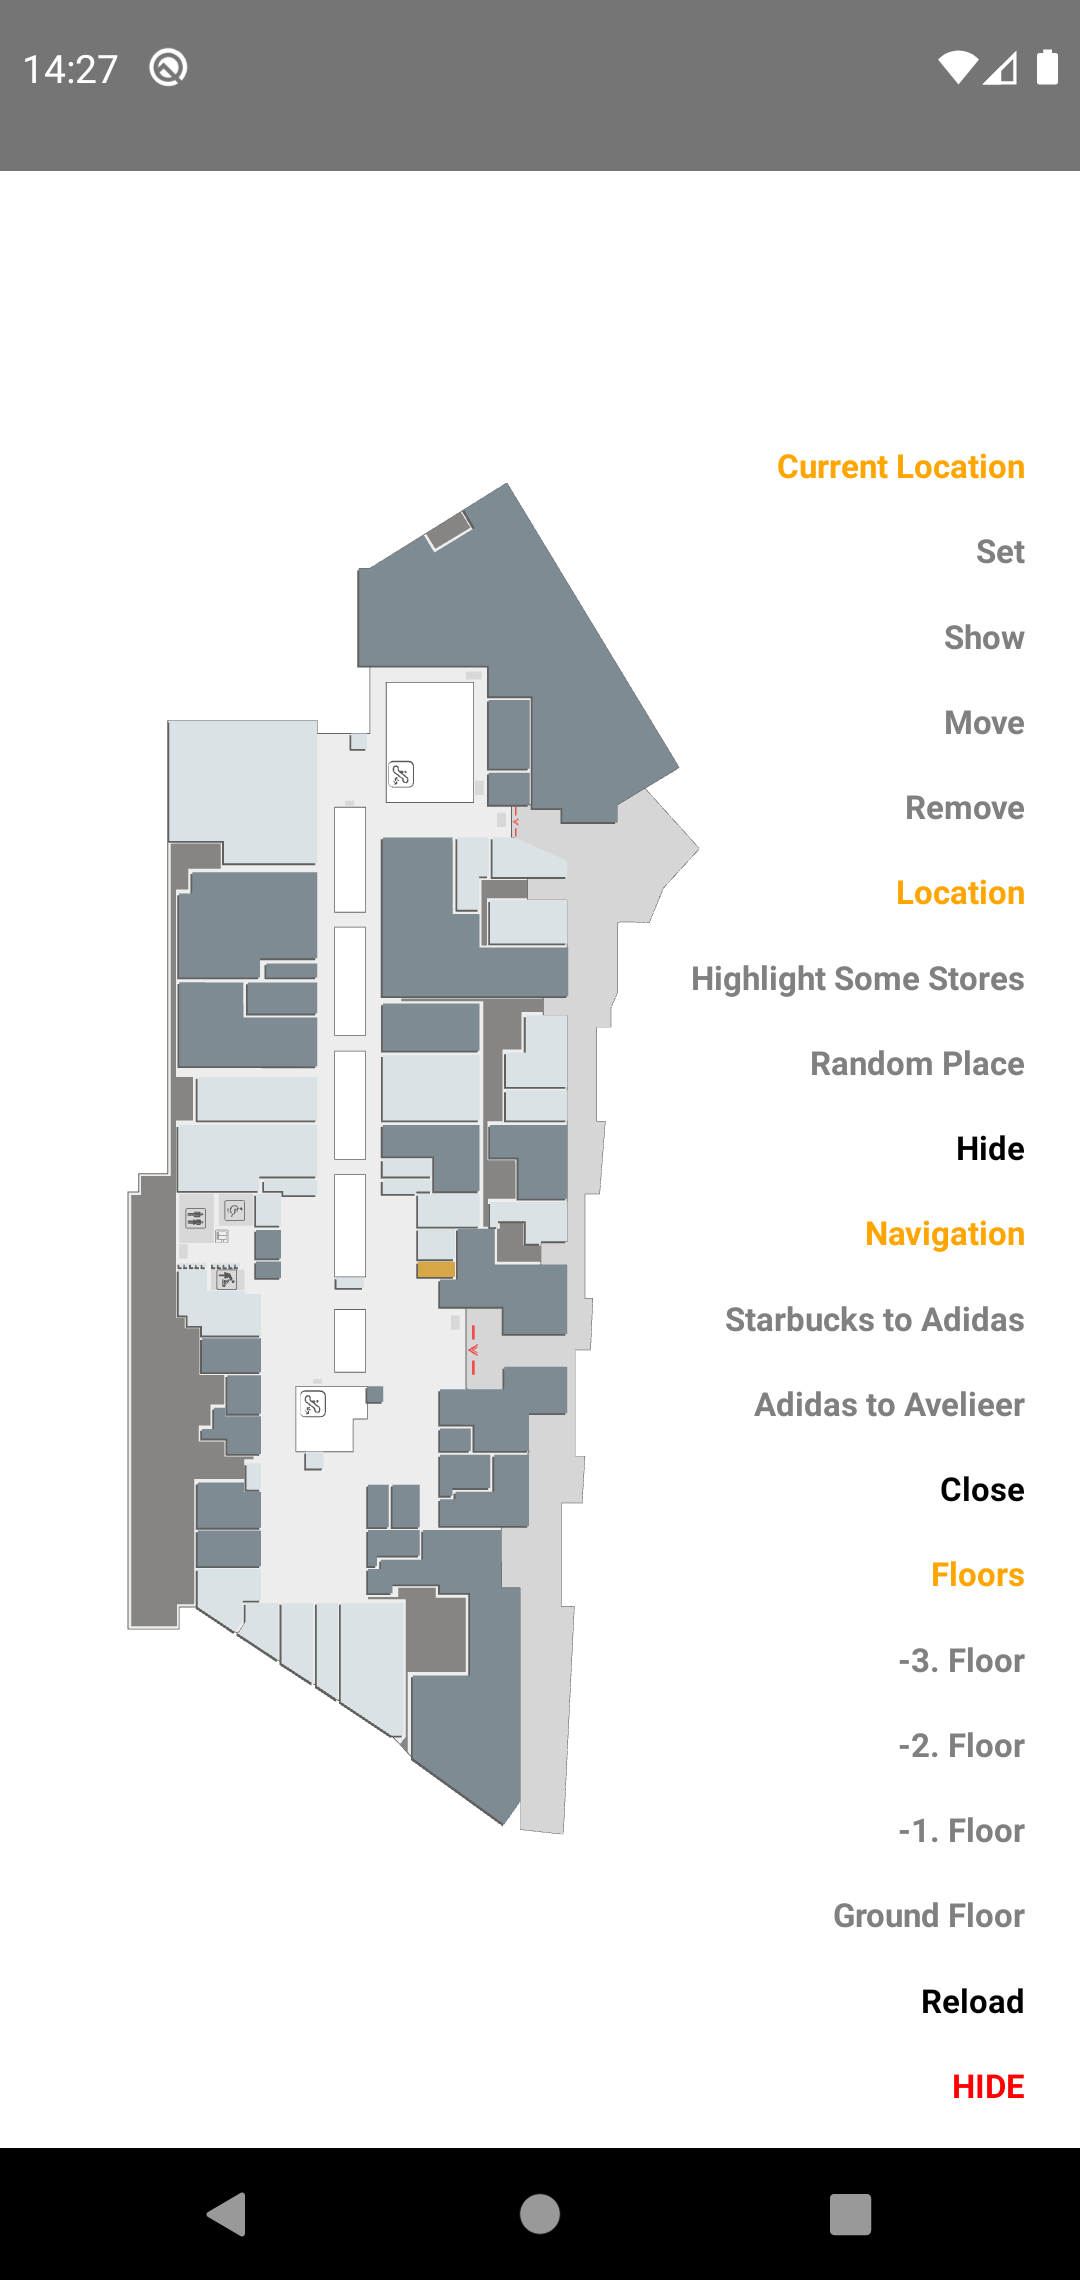
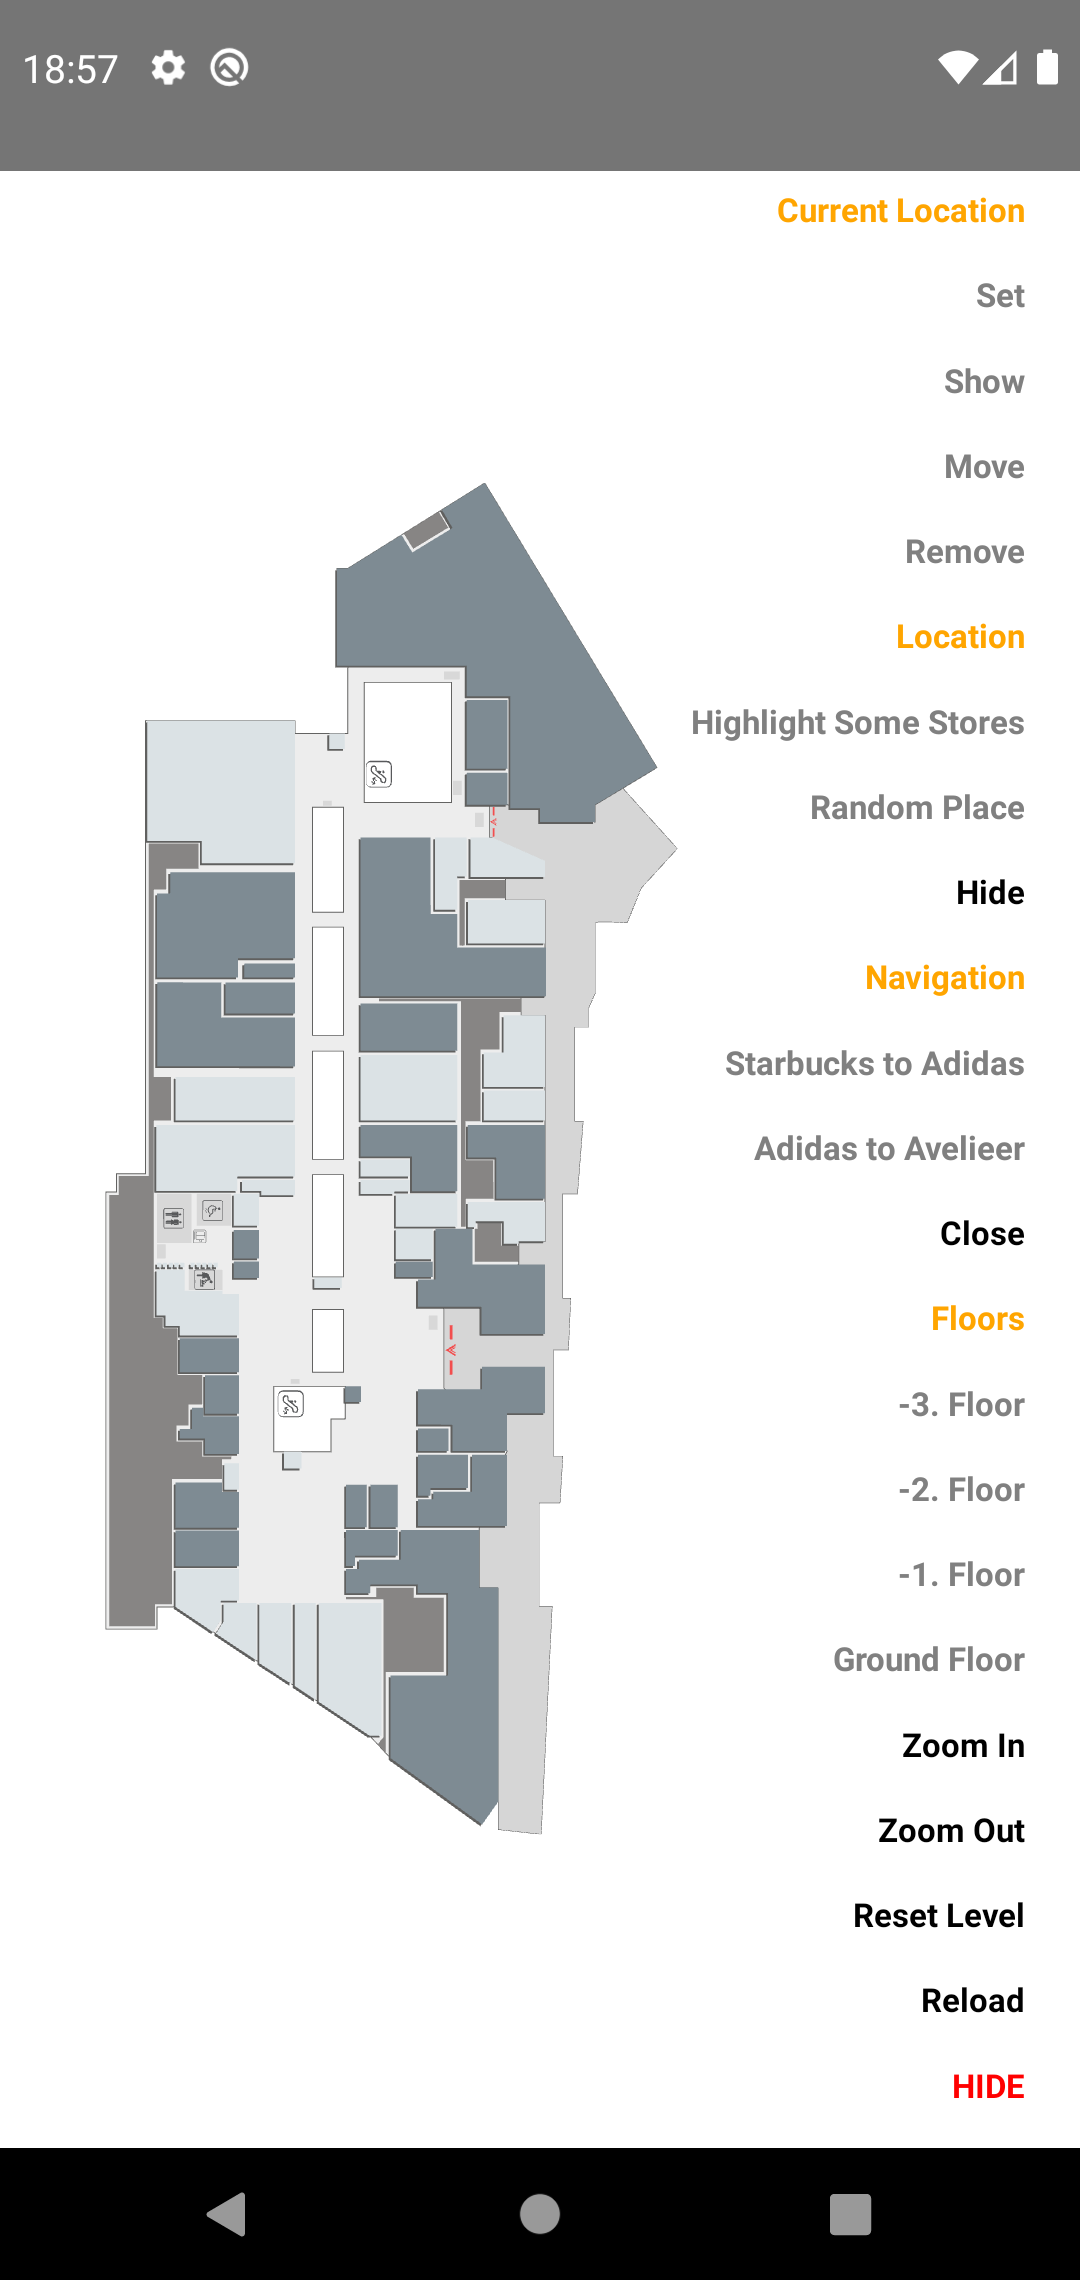
feat: add 6 new abilities
- zoomIn
- zoomOut
- zoomTo
- moveTo
- resetLevel
- addLevel

diff --git a/assets/mechanic_map.html b/assets/mechanic_map.html
@@ -4792,8 +4792,40 @@ C.e._gsDefine("easing.Back",["easing.Ease"],(function(){var A,g,I,t,e=C.e.GreenS
         mechanicMap.resetCurrentMobileUserLocation();
       }
 
-      function updateLocale(payload) {
-        mechanicMap.updateLocalized(payload);
+      function zoomIn() {
+        mechanicMap.zoomIn();
+      }
+
+      function zoomOut() {
+        mechanicMap.zoomOut();
+      }
+
+      function moveTo(payload) {
+        mechanicMap.mto(
+          payload.x,
+          payload.y,
+          payload.scale,
+          payload.duration,
+          payload.easing,
+        );
+      }
+
+      function zoomTo(payload) {
+        mechanicMap.zto(
+          payload.x,
+          payload.y,
+          payload.scale,
+          payload.duration,
+          payload.easing,
+        );
+      }
+
+      function addLevel(payload) {
+        mechanicMap.addLevel(payload.level);
+      }
+
+      function resetLevel() {
+        mechanicMap.resetLevel();
       }
 
       const onMessage = (e) => {
@@ -4833,8 +4865,23 @@ C.e._gsDefine("easing.Back",["easing.Ease"],(function(){var A,g,I,t,e=C.e.GreenS
           case 'removeCurrentLocation':
             removeCurrentLocation();
             break;
-          case 'updateLocale':
-            updateLocale(message.payload);
+          case 'zoomIn':
+            zoomIn();
+            break;
+          case 'zoomOut':
+            zoomOut();
+            break;
+          case 'addLevel':
+            addLevel(message.payload);
+            break;
+          case 'resetLevel':
+            resetLevel();
+            break;
+          case 'moveTo':
+            moveTo(message.payload);
+            break;
+          case 'zoomTo':
+            zoomTo(message.payload);
             break;
           case 'reload':
             location.reload();

diff --git a/src/MechanicMap.tsx b/src/MechanicMap.tsx
@@ -149,6 +149,53 @@ const MechanicMap = forwardRef<MechanicMapHandle, MechanicMapProps>(
           action: MapActions.REMOVE_CURRENT_LOCATION,
         });
       },
+      zoomIn() {
+        postMessage({
+          action: MapActions.ZOOM_IN,
+        });
+      },
+      zoomOut() {
+        postMessage({
+          action: MapActions.ZOOM_OUT,
+        });
+      },
+      moveTo(x, y, params) {
+        postMessage({
+          action: MapActions.MOVE_TO,
+          payload: {
+            x,
+            y,
+            scale: params?.scale,
+            duration: params?.duration,
+            easing: params?.easing,
+          },
+        });
+      },
+      zoomTo(x, y, params) {
+        postMessage({
+          action: MapActions.ZOOM_TO,
+          payload: {
+            x,
+            y,
+            scale: params?.scale,
+            duration: params?.duration,
+            easing: params?.easing,
+          },
+        });
+      },
+      addLevel(level) {
+        postMessage({
+          action: MapActions.ADD_LEVEL,
+          payload: {
+            level,
+          },
+        });
+      },
+      resetLevel() {
+        postMessage({
+          action: MapActions.RESET_LEVEL,
+        });
+      },
       reload() {
         postMessage({
           action: MapActions.RELOAD,

diff --git a/src/index.tsx b/src/index.tsx
@@ -26,6 +26,12 @@ export enum MapActions {
   SHOW_CURRENT_LOCATION = 'showCurrentLocation',
   MOVE_CURRENT_LOCATION = 'moveCurrentLocation',
   REMOVE_CURRENT_LOCATION = 'removeCurrentLocation',
+  ZOOM_IN = 'zoomIn',
+  ZOOM_OUT = 'zoomOut',
+  ADD_LEVEL = 'addLevel',
+  RESET_LEVEL = 'resetLevel',
+  MOVE_TO = 'moveTo',
+  ZOOM_TO = 'zoomTo',
   RELOAD = 'reload',
 }
 
@@ -222,6 +228,28 @@ export type MechanicMapHandle = {
     options?: { floorNo?: Number }
   ) => void;
   removeCurrentLocation: () => void;
+  zoomIn: () => void;
+  zoomOut: () => void;
+  moveTo: (
+    x: Number,
+    y: Number,
+    options?: {
+      scale?: Number;
+      duration?: Number;
+      easing?: String; // todo @ add enum
+    }
+  ) => void;
+  zoomTo: (
+    x: Number,
+    y: Number,
+    options?: {
+      scale?: Number;
+      duration?: Number;
+      easing?: String; // todo @ add enum
+    }
+  ) => void;
+  addLevel: (level: MechanicMapPayload) => void;
+  resetLevel: () => void;
   reload: () => void;
 };
 

diff --git a/example/src/App.tsx b/example/src/App.tsx
@@ -230,6 +230,18 @@ export default function App() {
         />
         {floorButtons && renderFloorButtons()}
         <Button
+          text="Zoom In"
+          onPress={() => mechanicMapRef?.current?.zoomIn()}
+        />
+        <Button
+          text="Zoom Out"
+          onPress={() => mechanicMapRef?.current?.zoomOut()}
+        />
+        <Button
+          text="Reset Level"
+          onPress={() => mechanicMapRef?.current?.resetLevel()}
+        />
+        <Button
           text="Reload"
           onPress={() => mechanicMapRef?.current?.reload()}
         />

diff --git a/README.md b/README.md
@@ -112,13 +112,14 @@ mechanicMapRef?.current?.reload() => void;
 **Navigation:**
 
 ```tsx
-mechanicMapRef?.current?.showNavigation({
+import type {Route} from 'react-native-mechanic-map'
+
+mechanicMapRef?.current?.showNavigation(
   route: Route,
   options?: {
     autoMode?: Boolean,
     zoomEnabled?: Boolean,
     showPins?: Boolean,
-  }
 }) => void;
 ```
 
@@ -131,6 +132,8 @@ mechanicMapRef?.current?.closeNavigation(resetLevel?: Boolean) => void;
 **Show Location:**
 
 ```tsx
+import type {LocationTypes} from 'react-native-mechanic-map'
+
 mechanicMapRef?.current?.showLocation({
   id: String,
   type: LocationTypes,
@@ -149,25 +152,25 @@ mechanicMapRef?.current?.hideLocation() => void;
 **Highlight Locations:**
 
 ```tsx
-mechanicMapRef?.current?.highlightLocations({
+import type {LocationTypes} from 'react-native-mechanic-map'
+
+mechanicMapRef?.current?.highlightLocations(
   ids: Array<String>,
   options?: {
     type?: LocationTypes,
     zoomEnabled?: Boolean,
     duration?: Number,
-  }
 }) => void;
 ```
 
 **Show Pin on Map:**
 
 ```tsx
-mechanicMapRef.current?.setCurrentLocation({
+mechanicMapRef.current?.setCurrentLocation(
   x: Number,
   y: Number,
   options?: {
     floorNo?: Number,
-  }
 }) => void;
 ```
 
@@ -180,18 +183,70 @@ mechanicMapRef.current?.showCurrentLocation() => void;
 **Move Pin:**
 
 ```tsx
-mechanicMapRef.current?.moveCurrentLocation({
+mechanicMapRef.current?.moveCurrentLocation(
   coords: Array<{ x: Number; y: Number }>,
   options?: {
     floorNo?: Number,
   }
-}) => void;
+) => void;
 ```
 
 **Remove Pin:**
 
 ```tsx
 mechanicMapRef.current?.removeCurrentLocation() => void;
+```
+
+**Zoom In:**
+
+```tsx
+mechanicMapRef.current?.zoomIn() => void;
+```
+
+**Zoom Out:**
+
+```tsx
+mechanicMapRef.current?.zoomOut() => void;
+```
+
+**Zoom To:**
+
+```tsx
+mechanicMapRef.current?.zoomTo(
+  x: Number,
+  y: Number,
+  options?: {
+    scale?: Number;
+    duration?: Number;
+    easing?: String;
+}) => void;
+```
+
+**Move To:**
+
+```tsx
+mechanicMapRef.current?.zoomTo(
+  x: Number,
+  y: Number,
+  options?: {
+    scale?: Number;
+    duration?: Number;
+    easing?: String;
+}) => void;
+```
+
+**Add Level:**
+
+```tsx
+import type {MechanicMapPayload} from 'react-native-mechanic-map'
+
+mechanicMapRef.current?.addLevel(level: MechanicMapPayload) => void;
+```
+
+**Reset Level:**
+
+```tsx
+mechanicMapRef.current?.resetLevel() => void;
 ```
 
 ## Example App
